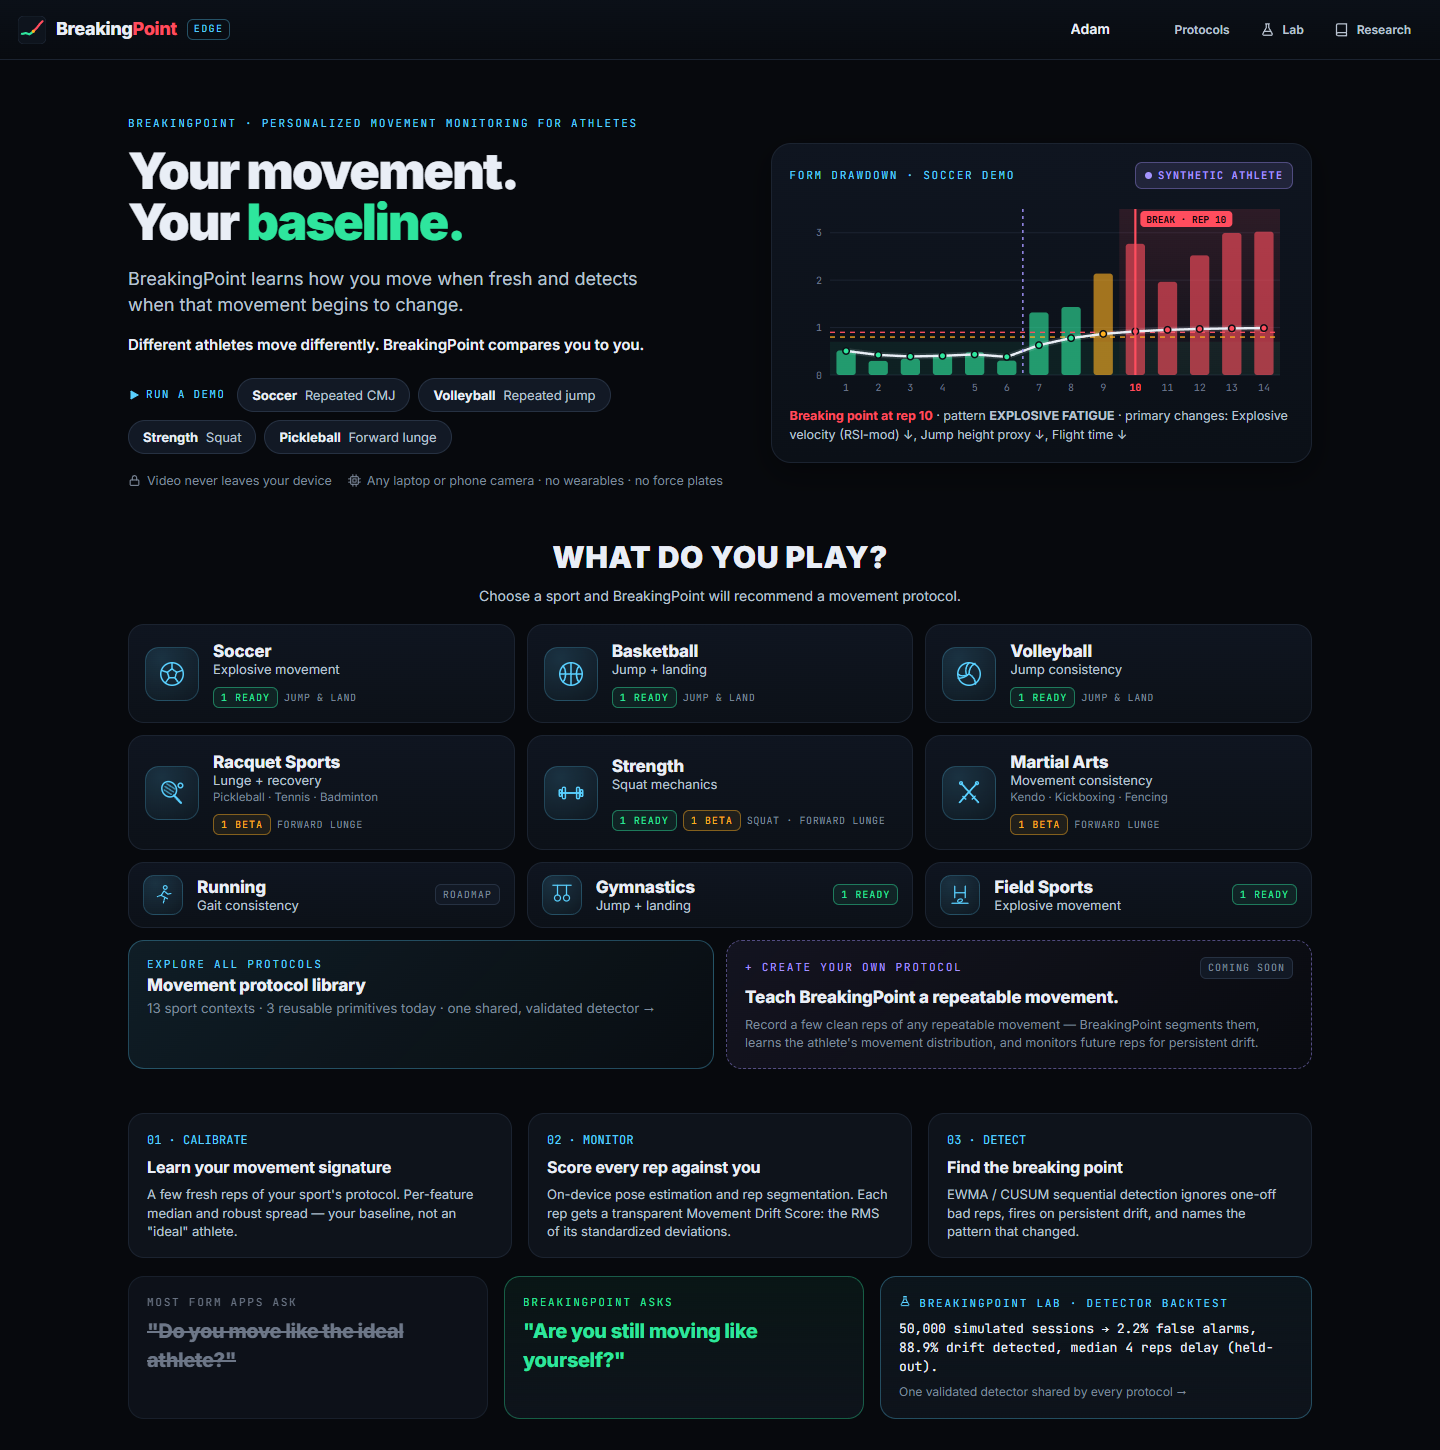
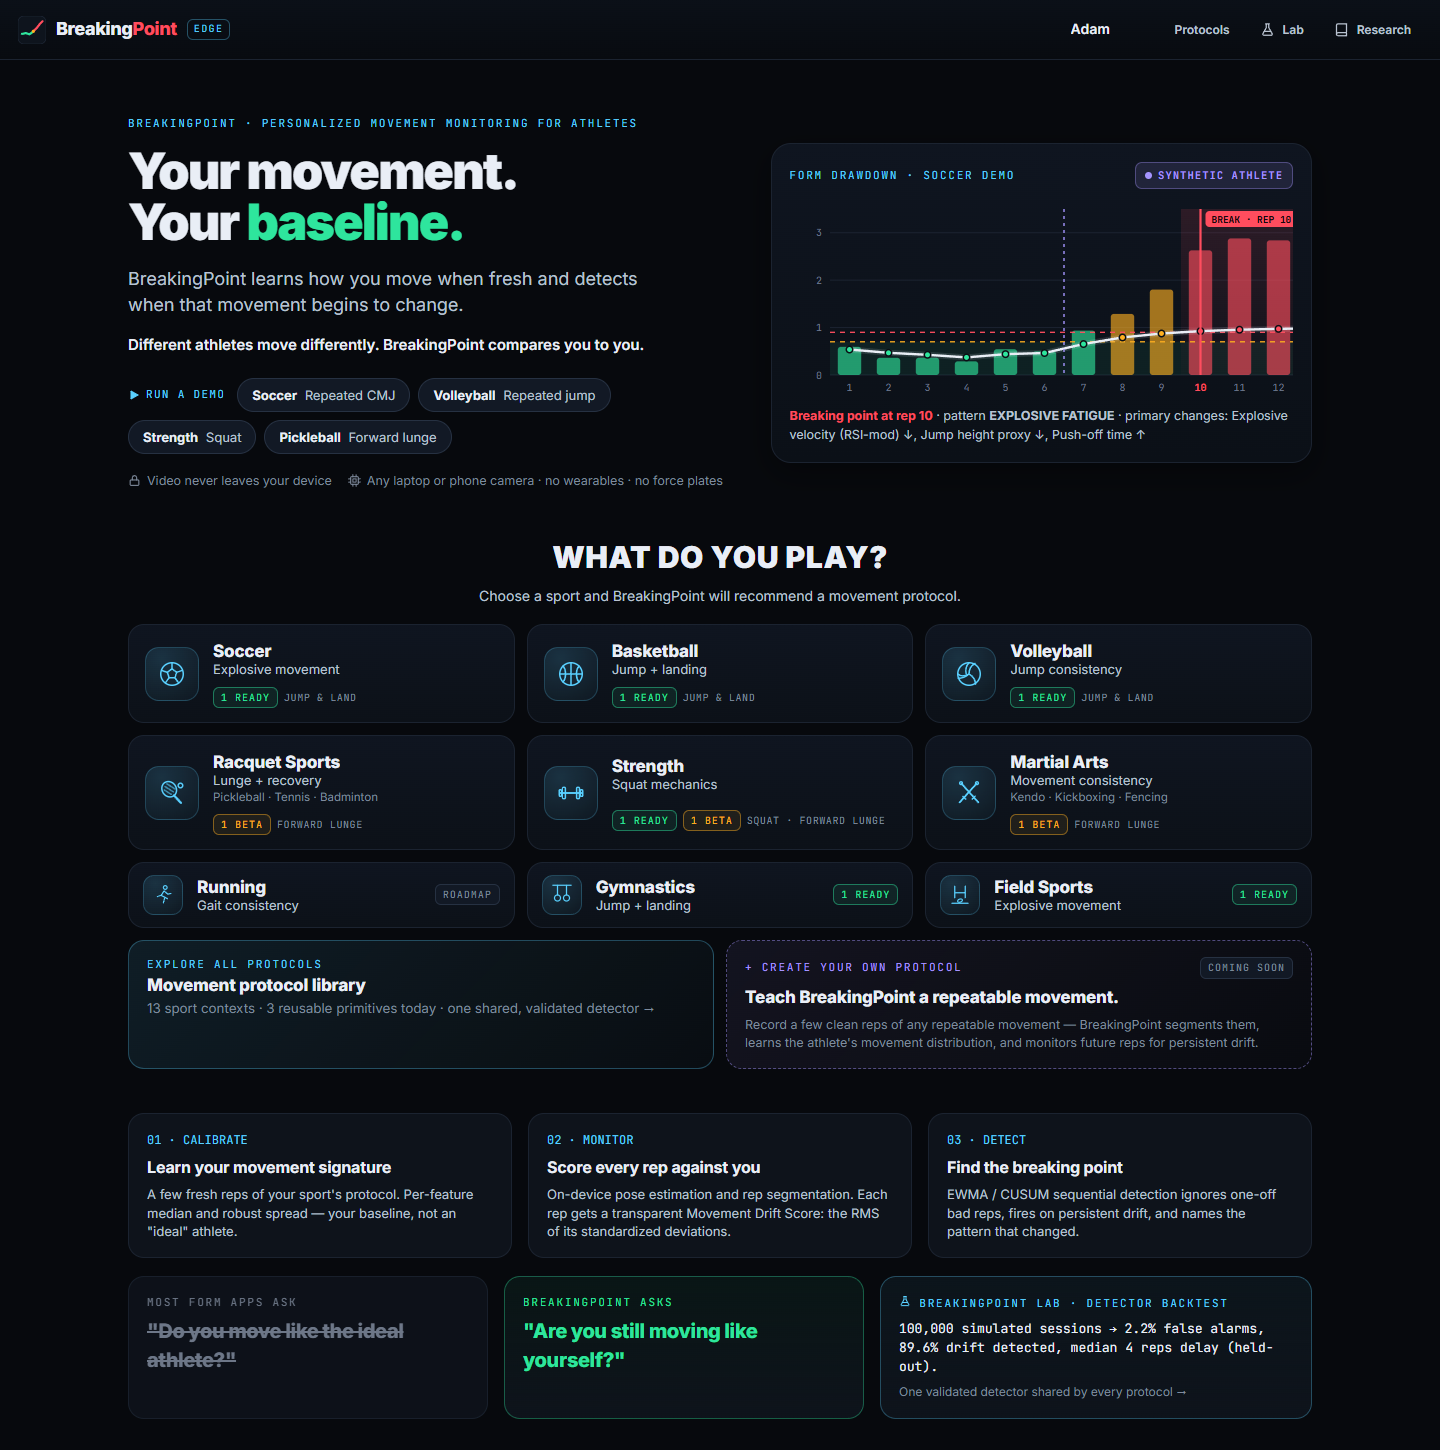
Retune demo presets for the HiPerGator detector config
The HiPerGator-selected config (warning 1.0, BreakingPoint 2.0, EWMA alpha 0.4,
input clip 2.5) makes "reps 1-8 stable, 9 drift, 10 BreakingPoint" unreachable
for any data: from a stable rep the EWMA can rise at most 0.4*2.5 + 0.6*Z per
rep, so Z stays <= 1.96 at rep 10. The demos now tell the closest story with
the alarm still at rep 10.

- Squat preset seed 73 / effect 0.65, CMJ preset seed 26 / effect 0.65:
  reps 1-7 stable, 8-9 drift emerging, 10 BreakingPoint, onset rep 7
  (the lunge demo already follows this story)
- Demo story test updated to that story; tuning script also checks onset
- Pitch, README, DEVPOST, technical notes and screenshots updated
- Detector config, thresholds, detector logic and Lab results unchanged

Changed region(s): [[0.5938, 0.1241, 0.9062, 0.3103], [0.625, 0.9, 0.75, 0.931], [0.7812, 0.9, 0.875, 0.931]]

diff --git a/tests/demo_tune.test.ts b/tests/demo_tune.test.ts
@@ -1,36 +1,57 @@
-// Re-tunes the demo presets for the currently installed detector config.
+// Re-tunes the demo presets (seed + fatigue-effect scale) for the currently installed detector config.
+// Searches only the deterministic synthetic demo data; the detector config is read, never modified.
 // Run:  DEMO_TUNE=1 npx vitest run tests/demo_tune.test.ts
 import { it } from 'vitest';
 import { readFileSync } from 'node:fs';
+import type { MovementState } from '../src/detection/detector';
 import { parseDetectorConfig } from '../src/detection/config';
 import { SessionEngine } from '../src/session/engine';
 import { DemoController } from '../src/demo/demoController';
 
+type Story = { name: string; states: MovementState[]; alarm: number };
+const S: MovementState = 'STABLE';
+const D: MovementState = 'DRIFT';
+const B: MovementState = 'BREAKPOINT';
+const STORIES: Story[] = [
+  { name: 'exact: 1-8 S, 9 D, 10 B', states: [S, S, S, S, S, S, S, S, D, B], alarm: 10 },
+  { name: 'A: 1-7 S, 8-9 D, 10 B', states: [S, S, S, S, S, S, S, D, D, B], alarm: 10 },
+  { name: 'B: 1-8 S, 9-10 D, 11 B', states: [S, S, S, S, S, S, S, S, D, D, B], alarm: 11 },
+];
+
 it.skipIf(!process.env.DEMO_TUNE)('search demo seeds', () => {
   const cfg = parseDetectorConfig(JSON.parse(readFileSync('public/breakingpoint_detector_config.json', 'utf8')));
-  for (const ex of ['squat', 'cmj', 'lunge'] as const) {
-    const found: string[] = [];
-    for (const effect of [0.35, 0.45, 0.55, 0.65, 0.8, 1.0]) {
-      for (let seed = 1; seed <= 60; seed++) {
+  const exercises = (process.env.DEMO_TUNE_EX ?? 'squat,cmj,lunge').split(',') as ('squat' | 'cmj' | 'lunge')[];
+  const maxSeed = Number(process.env.DEMO_TUNE_SEEDS ?? 120);
+  const effects = [0.35, 0.45, 0.55, 0.65, 0.8, 1.0, 1.2];
+  for (const ex of exercises) {
+    const found: Record<string, string[]> = Object.fromEntries(STORIES.map((s) => [s.name, []]));
+    for (const effect of effects) {
+      for (let seed = 1; seed <= maxSeed; seed++) {
         const engine = new SessionEngine(ex, cfg, 'Adam', 'demo');
-        const demo = new DemoController(engine, ex, 16 / 9, seed, effect);
-        demo.runToEnd(true);
+        new DemoController(engine, ex, 16 / 9, seed, effect).runToEnd(true);
         const s = engine.getSnapshot();
         if (s.monitorReps.length !== 14 || s.calibrationReps.length !== 6 || s.recoveryReps.length !== 3) continue;
         const st = s.monitorReps.map((r) => r.step!);
-        const ok = st.slice(0, 8).every((x) => x.state === 'STABLE') && st[8].state === 'DRIFT' && st[9].state === 'BREAKPOINT' && s.alarmRep === 10;
-        if (!ok) continue;
-        const D = s.monitorReps.map((r) => r.drift?.score ?? 0);
-        const fresh = Math.max(...st.slice(0, 6).map((x) => x.ewma));
-        const m8 = cfg.warningThreshold - st[7].ewma;
-        const m9 = cfg.breakpointThreshold - st[8].ewma;
-        const m10 = st[9].ewma - cfg.breakpointThreshold;
-        const rising = D[6] > Math.max(...D.slice(0, 6)) && D[7] > D[6];
-        const margin = Math.min(m8, m9, m10, cfg.warningThreshold - fresh);
-        found.push(`${ex} effect=${effect} seed=${seed} margin=${margin.toFixed(3)} rising=${rising} onset=${s.onsetRep} rec=${s.recovery?.status}:${s.recovery?.percent.toFixed(2)} D=${D.map((d) => d.toFixed(2)).join(' ')}`);
+        const Dsc = s.monitorReps.map((r) => r.drift?.score ?? 0);
+        for (const story of STORIES) {
+          const ok = story.states.every((x, i) => st[i].state === x) && s.alarmRep === story.alarm;
+          if (!ok || s.onsetRep === null || s.onsetRep < 6 || s.onsetRep > 8) continue;
+          // margin: distance of each decisive EWMA value from the threshold it must clear / stay under
+          const lastStable = story.states.lastIndexOf(S);
+          const margins = [cfg.warningThreshold - Math.max(...st.slice(0, lastStable + 1).map((x) => x.ewma))];
+          for (let i = lastStable + 1; i < story.alarm - 1; i++) margins.push(st[i].ewma - cfg.warningThreshold, cfg.breakpointThreshold - st[i].ewma);
+          margins.push(st[story.alarm - 1].ewma - cfg.breakpointThreshold);
+          const rising = Dsc[6] > Math.max(...Dsc.slice(0, 6)) && Dsc[7] > Dsc[6];
+          found[story.name].push(
+            `${ex} effect=${effect} seed=${seed} margin=${Math.min(...margins).toFixed(3)} rising=${rising} onset=${s.onsetRep} ` +
+              `rec=${s.recovery?.status}:${s.recovery?.percent.toFixed(2)} D=${Dsc.map((d) => d.toFixed(2)).join(' ')}`,
+          );
+        }
       }
     }
-    found.sort((a, b) => parseFloat(b.split('margin=')[1]) - parseFloat(a.split('margin=')[1]));
-    console.log(`\n${ex}: ${found.length} candidates\n` + found.slice(0, 8).join('\n'));
+    for (const story of STORIES) {
+      const list = found[story.name].sort((a, b) => parseFloat(b.split('margin=')[1]) - parseFloat(a.split('margin=')[1]));
+      console.log(`\n${ex} · ${story.name}: ${list.length} candidates\n` + list.slice(0, 6).join('\n'));
+    }
   }
-}, 600000);
+}, 1_800_000);

diff --git a/tests/demo.test.ts b/tests/demo.test.ts
@@ -29,9 +29,12 @@ describe.each(['squat', 'cmj'] as const)('demo dataset (%s)', (exercise) => {
     expect(s.baseline?.reference.source).toBe('loo');
   });
 
-  it('tells the story: 1-8 stable, 9 drift emerging, 10 BreakingPoint, onset ≈ 7', () => {
+  // Under the HiPerGator config (warning 1.0σ, BreakingPoint 2.0σ, α 0.4, clip 2.5) the smoothed drift needs at
+  // least three reps to climb from a STABLE rep past 2.0σ, so the story is: 1-7 stable, 8-9 drift, 10 BreakingPoint.
+  it('tells the story: 1-7 stable, 8-9 drift emerging, 10 BreakingPoint, onset ≈ 7', () => {
     const states = s.monitorReps.map((r) => r.step!.state);
-    expect(states.slice(0, 8).every((x) => x === 'STABLE')).toBe(true);
+    expect(states.slice(0, 7).every((x) => x === 'STABLE')).toBe(true);
+    expect(states[7]).toBe('DRIFT');
     expect(states[8]).toBe('DRIFT');
     expect(s.alarmRep).toBe(10);
     expect(states.slice(9).every((x) => x === 'BREAKPOINT')).toBe(true);

diff --git a/src/demo/demoScript.ts b/src/demo/demoScript.ts
@@ -17,8 +17,8 @@ export const DEMO_CALIBRATION_REPS = 6;
  * script after installing a new Lab config:  DEMO_TUNE=1 npx vitest run tests/demo_tune.test.ts
  */
 export const DEMO_PRESETS: Record<ExerciseType, { seed: number; effect: number }> = {
-  squat: { seed: 43, effect: 0.55 },
-  cmj: { seed: 28, effect: 0.65 },
+  squat: { seed: 73, effect: 0.65 },
+  cmj: { seed: 26, effect: 0.65 },
   lunge: { seed: 1, effect: 0.6 },
 };
 export const DEMO_SEED = DEMO_PRESETS.squat.seed;

diff --git a/DEVPOST.md b/DEVPOST.md
@@ -49,8 +49,8 @@ BreakingPoint turns a laptop or phone camera into a personalized movement-monito
 3. **Detect.** A sequential detector (EWMA with persistence; CUSUM tracks the onset) ignores one weird rep but fires
    when drift **persists**. The screen moves from STABLE to DRIFT EMERGING to **BREAKING POINT DETECTED — Rep 10**.
 4. **Explain.** "Why did you flag me?" BreakingPoint ranks what changed, in the sport's own terms, and names the
-   pattern. Soccer demo: **EXPLOSIVE FATIGUE**: *explosive velocity (RSI-mod) −4.9σ ↓, jump height −3.5σ ↓, flight
-   time −2.9σ ↓*. Pickleball demo: **RECOVERY SLOWING**: *push-back speed −3.8σ ↓, trunk lean +2.2σ ↑*. Pattern
+   pattern. Soccer demo: **EXPLOSIVE FATIGUE**: *explosive velocity (RSI-mod) −4.6σ ↓, jump height −3.6σ ↓, push-off
+   time +2.2σ ↑*. Pickleball demo: **RECOVERY SLOWING**: *push-back speed −3.8σ ↓, trunk lean +2.2σ ↑*. Pattern
    labels describe movement change and are never diagnoses. On the skeleton it highlights the segments that changed.
 5. **Report and recover.** A session summary (stable reps, post-breaking-point reps, average drift before and after,
    largest mechanical drift), JSON/CSV export, and a **recovery check**: after rest, three reps are compared with the

diff --git a/PITCH.md b/PITCH.md
@@ -42,11 +42,13 @@ velocity, flight time, push-off time, landing depth, trunk lean and left/right d
 baseline. It's his baseline, not "ideal form".
 
 *[Monitored set; bars fill the Form Drawdown chart.]* Now the set. Every jump gets a Movement Drift Score: how far it
-sits from Adam's own baseline. Jumps one to six: stable. Seven and eight: drift rising, but one or two odd reps
-aren't enough. *[Rep 9 amber.]* Nine: **drift emerging**. *[Rep 10: red flash.]* Ten: **breaking point**.
+sits from Adam's own baseline. Jumps one to seven: stable, even when one jump is a little off.
+*[Reps 8–9 amber.]* Eight and nine: **drift emerging**, and it keeps building. *[Rep 10: red flash.]* Ten: **breaking
+point**.
 
 *[Point at the state card and contributors.]* It names the pattern, **explosive fatigue**, and says why: explosive
-velocity is down almost five standard deviations, jump height is down three and a half, and flight time is down three.
+velocity is down four and a half standard deviations, jump height is down three and a half, and push-off time is
+slower by two.
 *[Point at the chart.]* This is our Form Drawdown, borrowed from quant risk dashboards. The dashed line marks where
 drift actually began, rep seven, and the red line marks where we became confident.
 

diff --git a/TECHNICAL_NOTES.md b/TECHNICAL_NOTES.md
@@ -292,7 +292,10 @@ frames enter the same `PosePipeline` → `SessionEngine` as camera frames, so se
 drift and detection are all real. Playback speed only changes how many simulated frames are processed per
 timer tick, so results are independent of frame rate. Fatigue presets (`DEMO_PRESETS`) were chosen with
 `tests/demo_tune.test.ts` so that the shipped detector tells the intended story. `tests/demo.test.ts` locks it:
-reps 1–8 stable, rep 9 drift emerging, BreakingPoint at rep 10, onset 6–8, recovery check > 50 %.
+reps 1–7 stable, reps 8–9 drift emerging, BreakingPoint at rep 10, onset 6–8, recovery check > 50 %. (Under the
+HiPerGator config — warning 1.0σ, BreakingPoint 2.0σ, α 0.4, clip 2.5 — the EWMA can rise at most
+`0.4·2.5 + 0.6·Z` per rep, so from a stable rep (Z ≤ 1.0) it needs at least three reps to exceed 2.0σ:
+"1–8 stable, 9 drift, 10 BreakingPoint" is unreachable for any data, and the demo tells the closest story.)
 
 ## 10. Testing
 

diff --git a/README.md b/README.md
@@ -280,7 +280,7 @@ HiPerGator: see **[hpc/README_HIPERGATOR.md](hpc/README_HIPERGATOR.md)** (`bash 
 
 The demo never depends on camera conditions. It is clearly labeled **DEMO DATASET · SYNTHETIC ATHLETE**,
 and its frames go through exactly the same code path as camera frames. Story: 6 calibration reps →
-reps 1–6 stable → 7–8 drift rising → 9 drift emerging → **10 BreakingPoint** → 11–14 persistent drift →
+reps 1–7 stable → 8–9 drift emerging → **10 BreakingPoint** (onset ≈ rep 7) → 11–14 persistent drift →
 recovery check. (When the alarm fires is decided by the real detector at runtime; `tests/demo.test.ts`,
 `tests/sports.test.ts` and `tests/lunge.test.ts` lock the story for the shipped config.)
 
